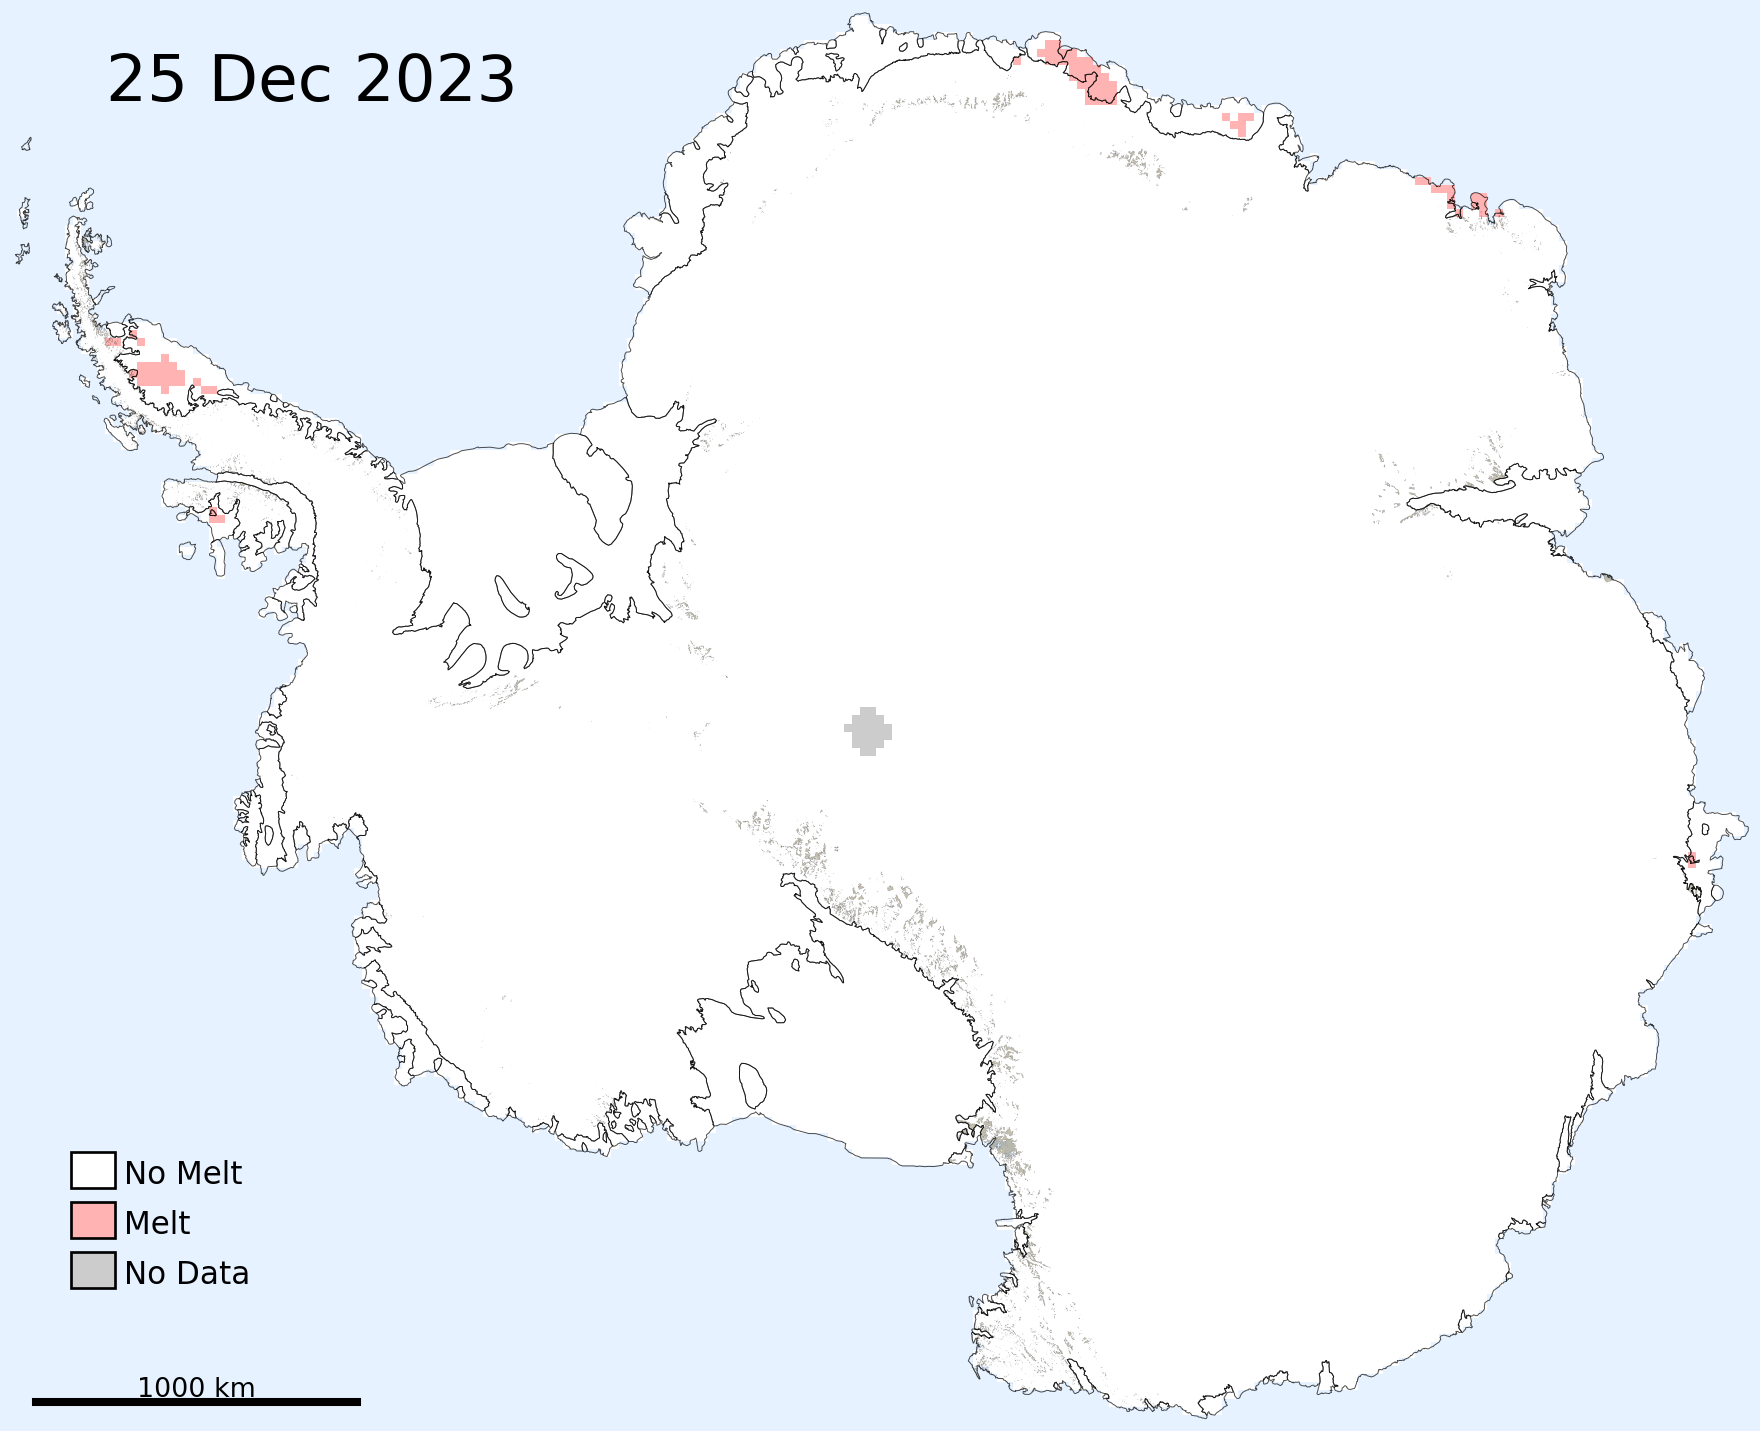
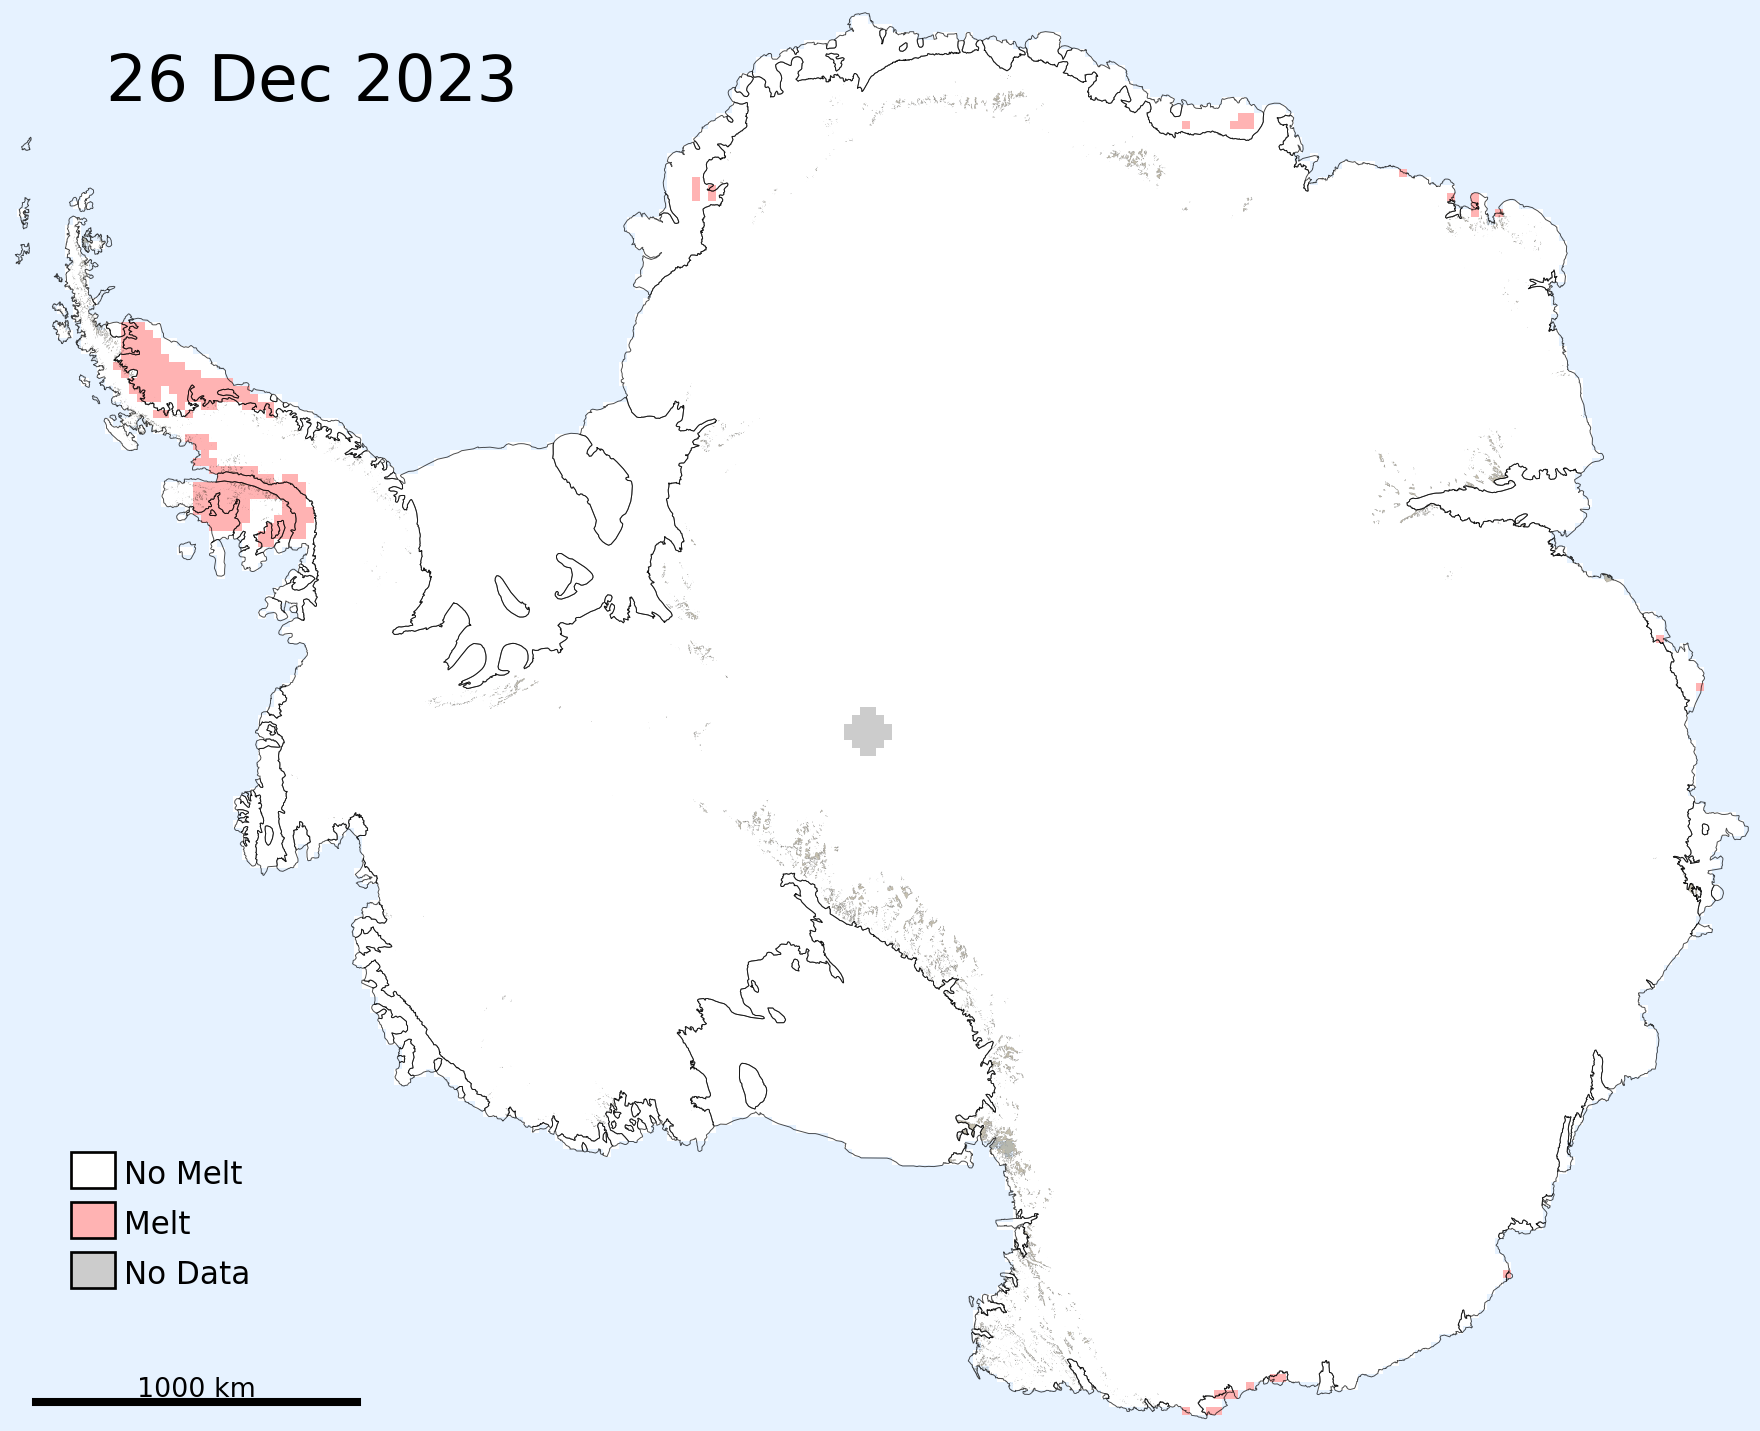
'Uploading most recent images and datestr for 2023.12.26.'

diff --git a/README.md b/README.md
@@ -4,7 +4,7 @@ by Dr. Mike MacFerrin, University of Colorado
 
 Daily maps of surface melt extent on the Antarctic ice sheet during the austral melt season (Oct 1 to Apr 30), with a 1-day lag.
 
-### **<!--date_start-->Monday, December 25, 2023<!--date_end-->**
+### **<!--date_start-->Tuesday, December 26, 2023<!--date_end-->**
 <!--The "date_start" and "date_end" html-comment tags above are so the add_date_to_readme.py script can find and dynamically replace the date in this README.md every time the images are updated. Do not remove them unless the code no longer uses add_date_to_readme.py-->
 <table>
   <tr>
